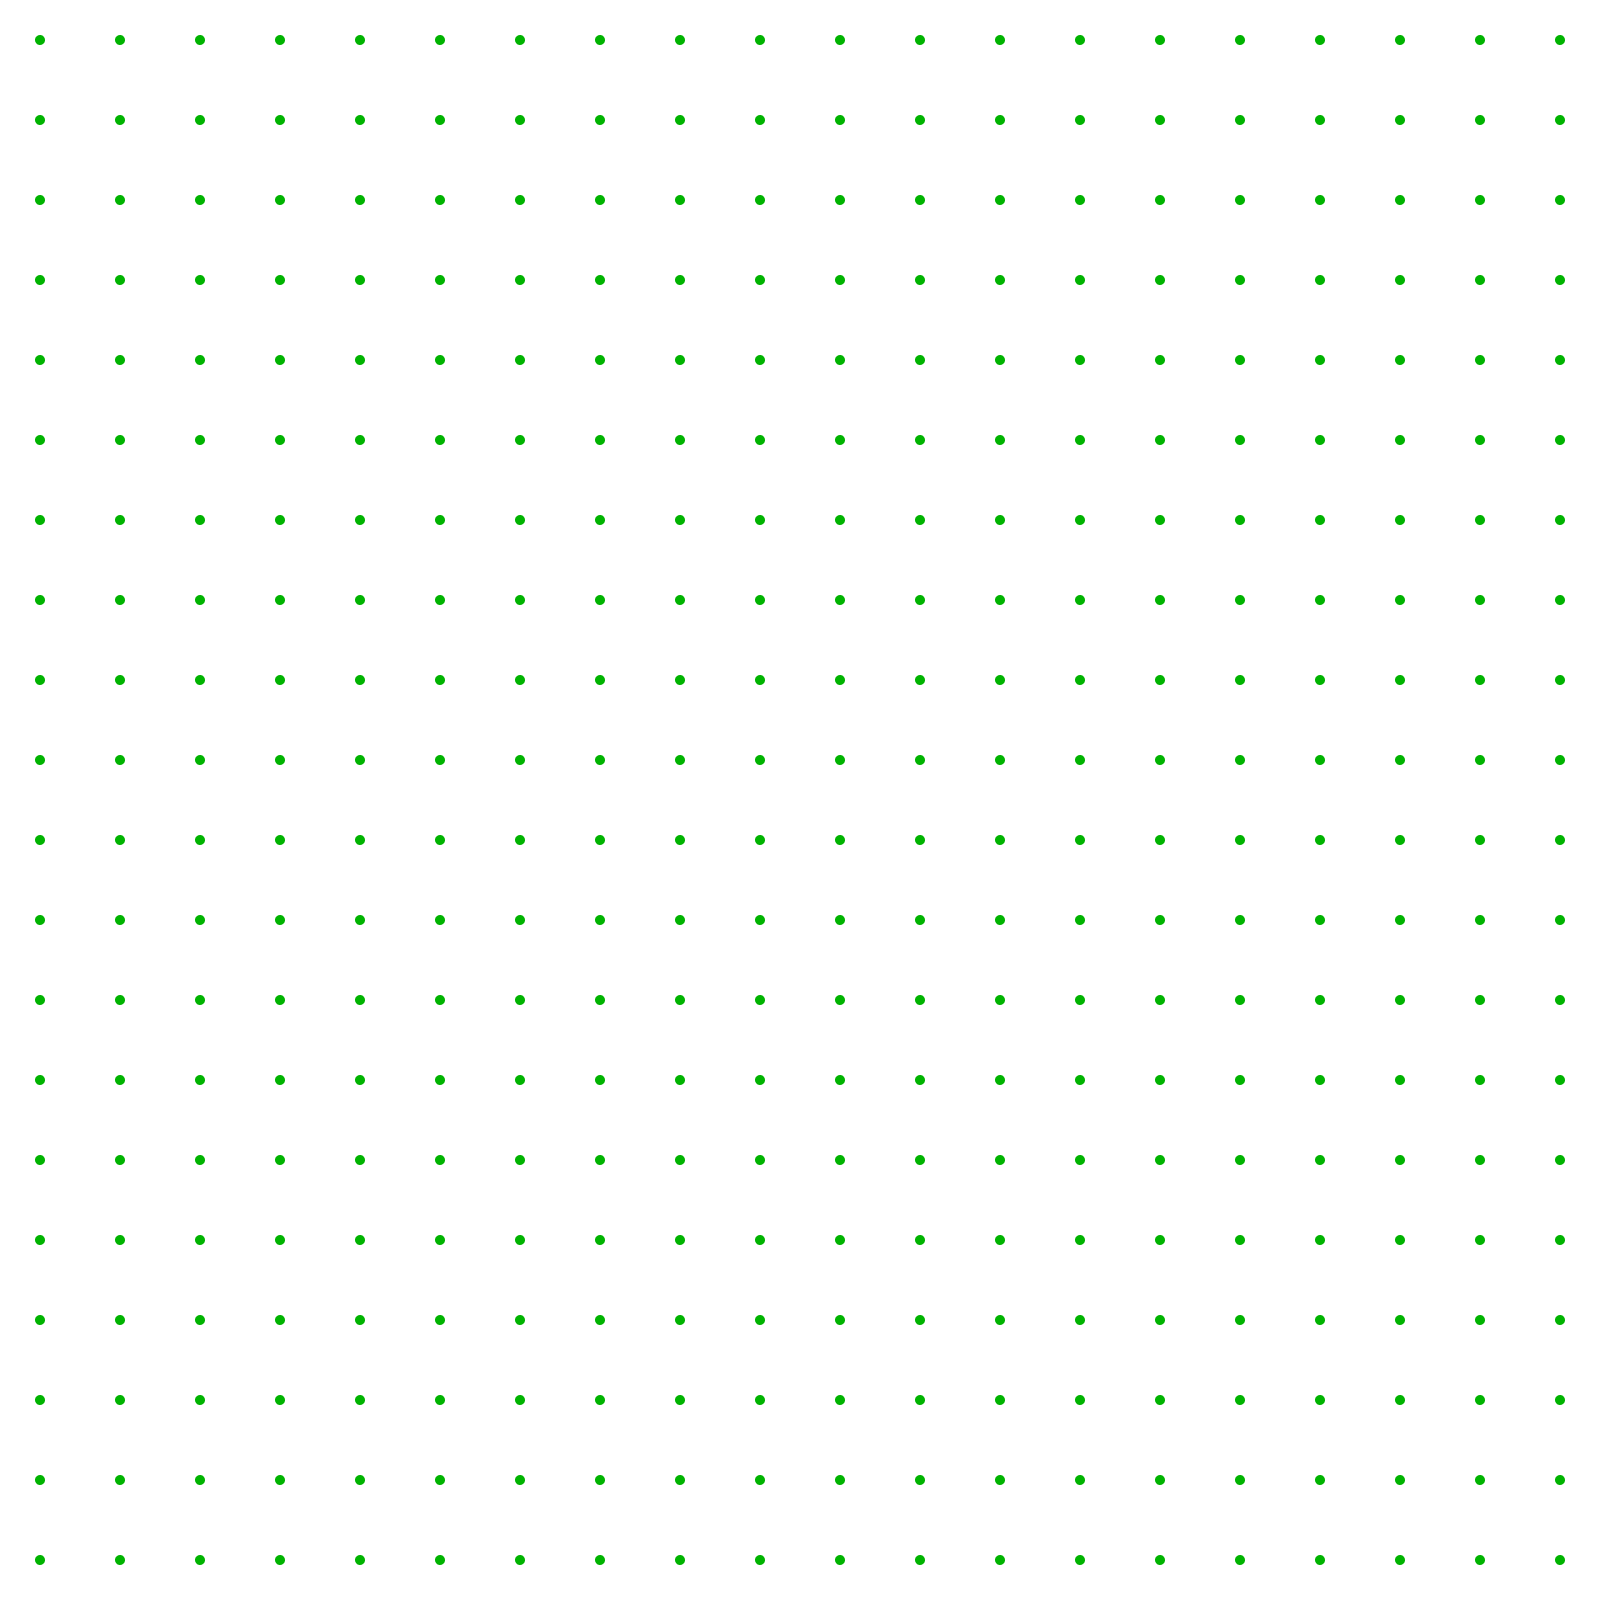
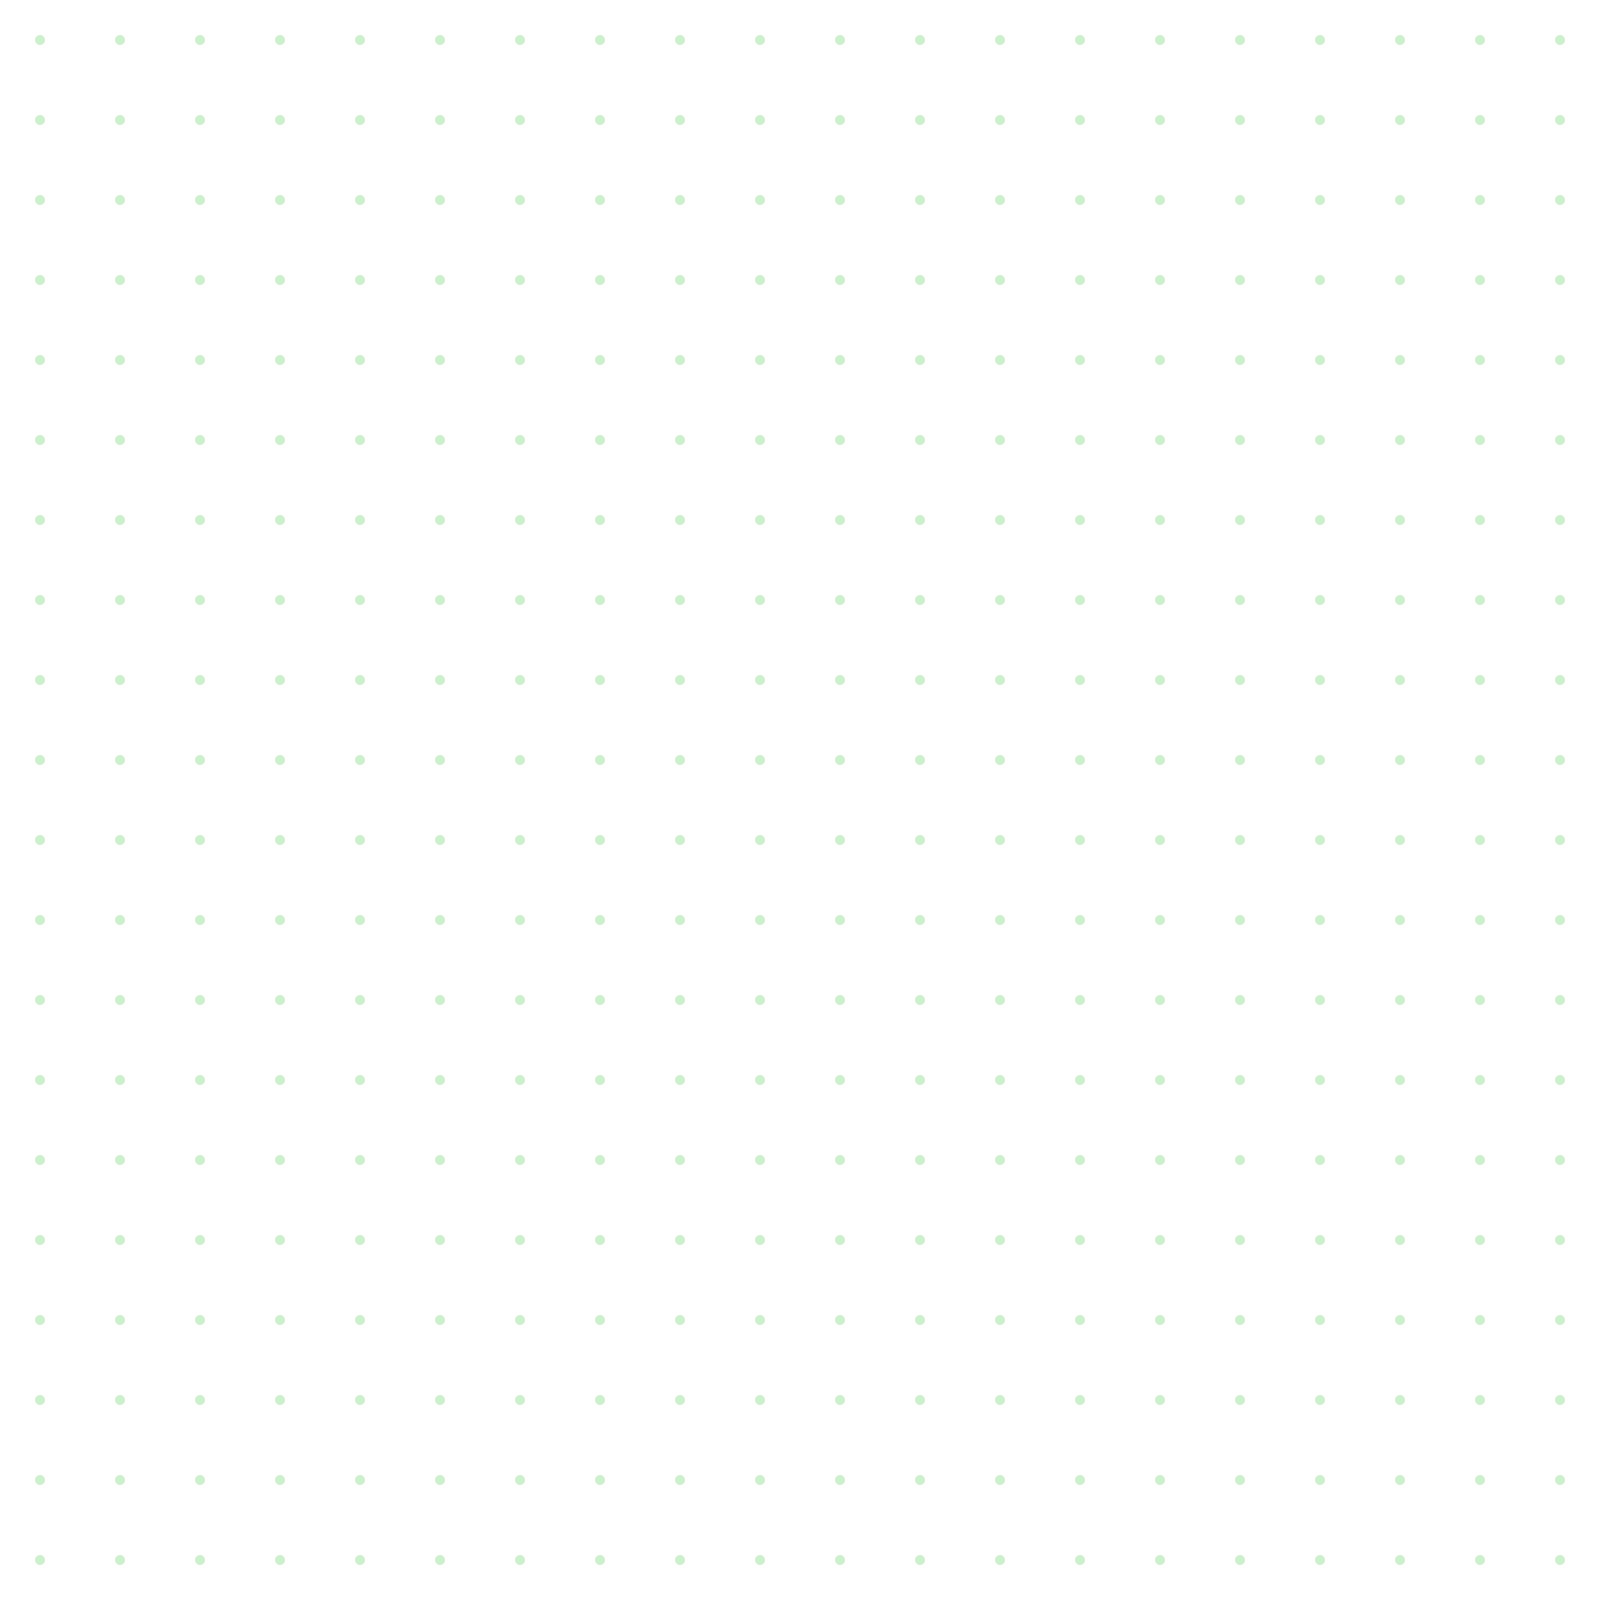
replace light background

diff --git a/dist/code.js b/dist/code.js
@@ -3,6 +3,7 @@
   var { widget } = figma;
   var { AutoLayout, SVG, Text, Image, Frame, Line, Rectangle, Ellipse, useSyncedState, usePropertyMenu, Input, useEffect, waitForTask } = widget;
   var App = () => {
+    const [background, setBackground] = useSyncedState("background", "https://raw.githubusercontent.com/kakax114/Figma-Widget-Mindmap/main/background-light.png");
     const [data, setData] = useSyncedState("data", [
       [
         {
@@ -338,7 +339,6 @@
       <path fill-rule="evenodd" clip-rule="evenodd" d="M17 8H15V15H8V17H15V24H17V17H24V15H17V8Z" fill="black" fill-opacity="0.4"/>
     </svg>
   `;
-    const background = "background.png";
     return /* @__PURE__ */ figma.widget.h(AutoLayout, {
       direction: "horizontal",
       fill: {
@@ -346,7 +346,8 @@
         src: background,
         scaleMode: "tile",
         scalingFactor: 0.1
-      }
+      },
+      cornerRadius: 13
     }, data.map((group, i) => {
       return /* @__PURE__ */ figma.widget.h(AutoLayout, {
         key: i,

diff --git a/widget-src/code.tsx b/widget-src/code.tsx
@@ -3,6 +3,8 @@ const { AutoLayout, SVG, Text, Image, Frame, Line, Rectangle, Ellipse, useSynced
 
 const App = () => {
   // const [text, setText] = useSyncedState("text", "Hello")
+  const [background, setBackground] = useSyncedState("background", "https://raw.githubusercontent.com/kakax114/Figma-Widget-Mindmap/main/background-light.png")
+
   const [data, setData] = useSyncedState("data", 
         //2d array, parent array is the group, child array is the items
         [
@@ -15,7 +17,9 @@ const App = () => {
             },
           ],
         ]
-   )
+  )
+
+  
   
   //function to get the position of the input box
   const getXPos = () => {
@@ -486,8 +490,6 @@ const App = () => {
     </svg>
   `;
 
-  const background = 'background.png'
-
 
     
 
@@ -500,6 +502,7 @@ const App = () => {
         scaleMode: 'tile',
         scalingFactor: 0.1,
       }}
+      cornerRadius={13}
     >
     {data.map((group, i) => {
         return (
